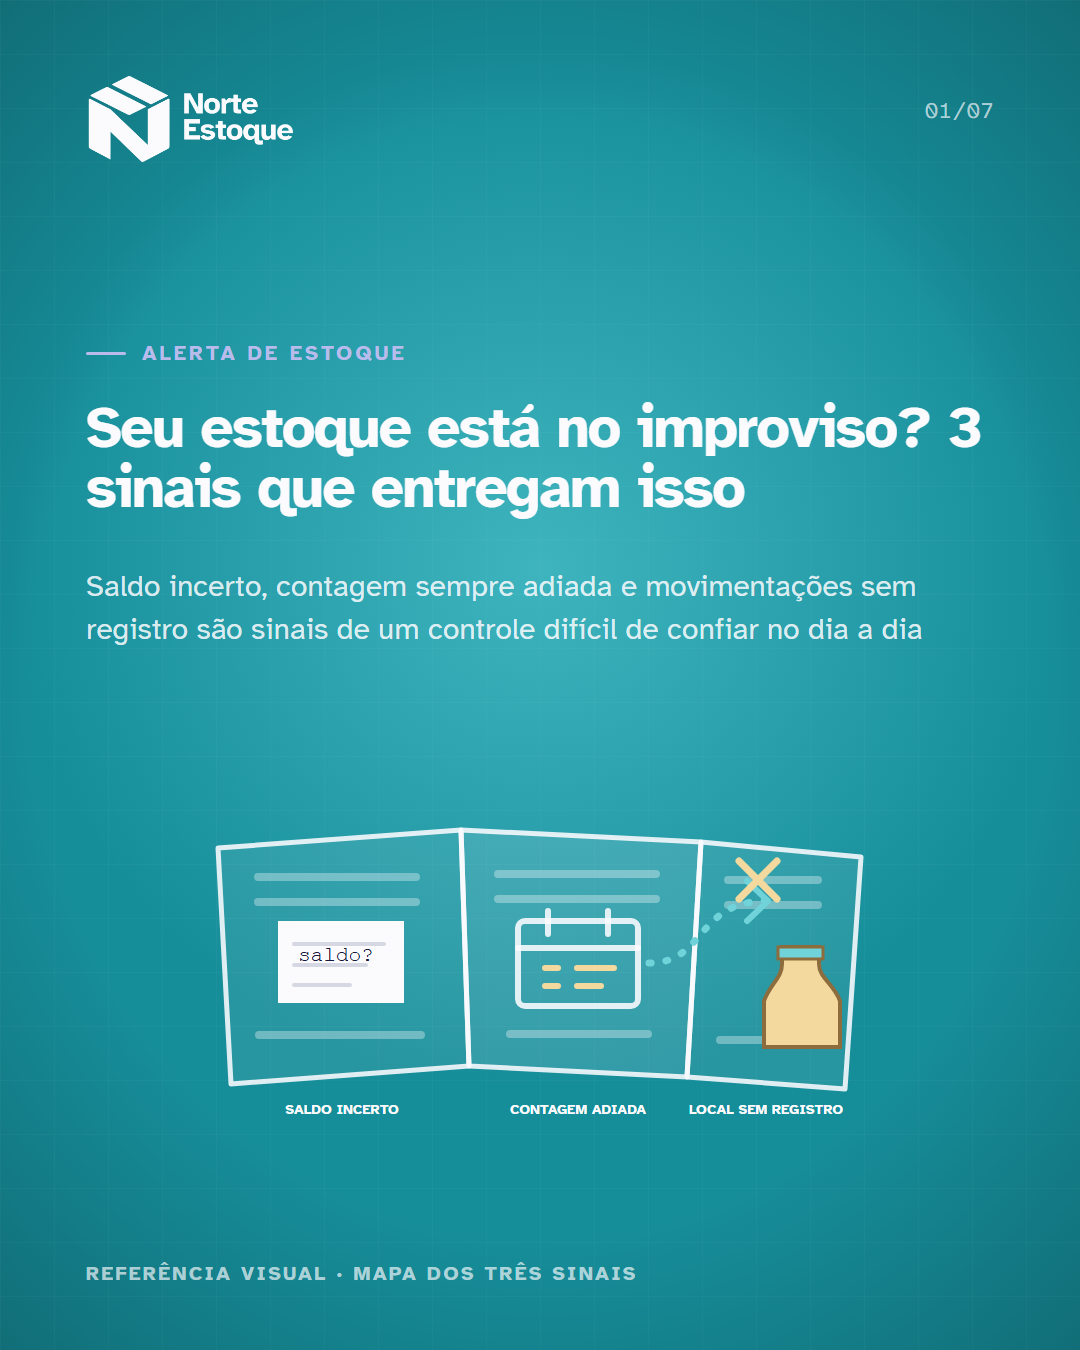
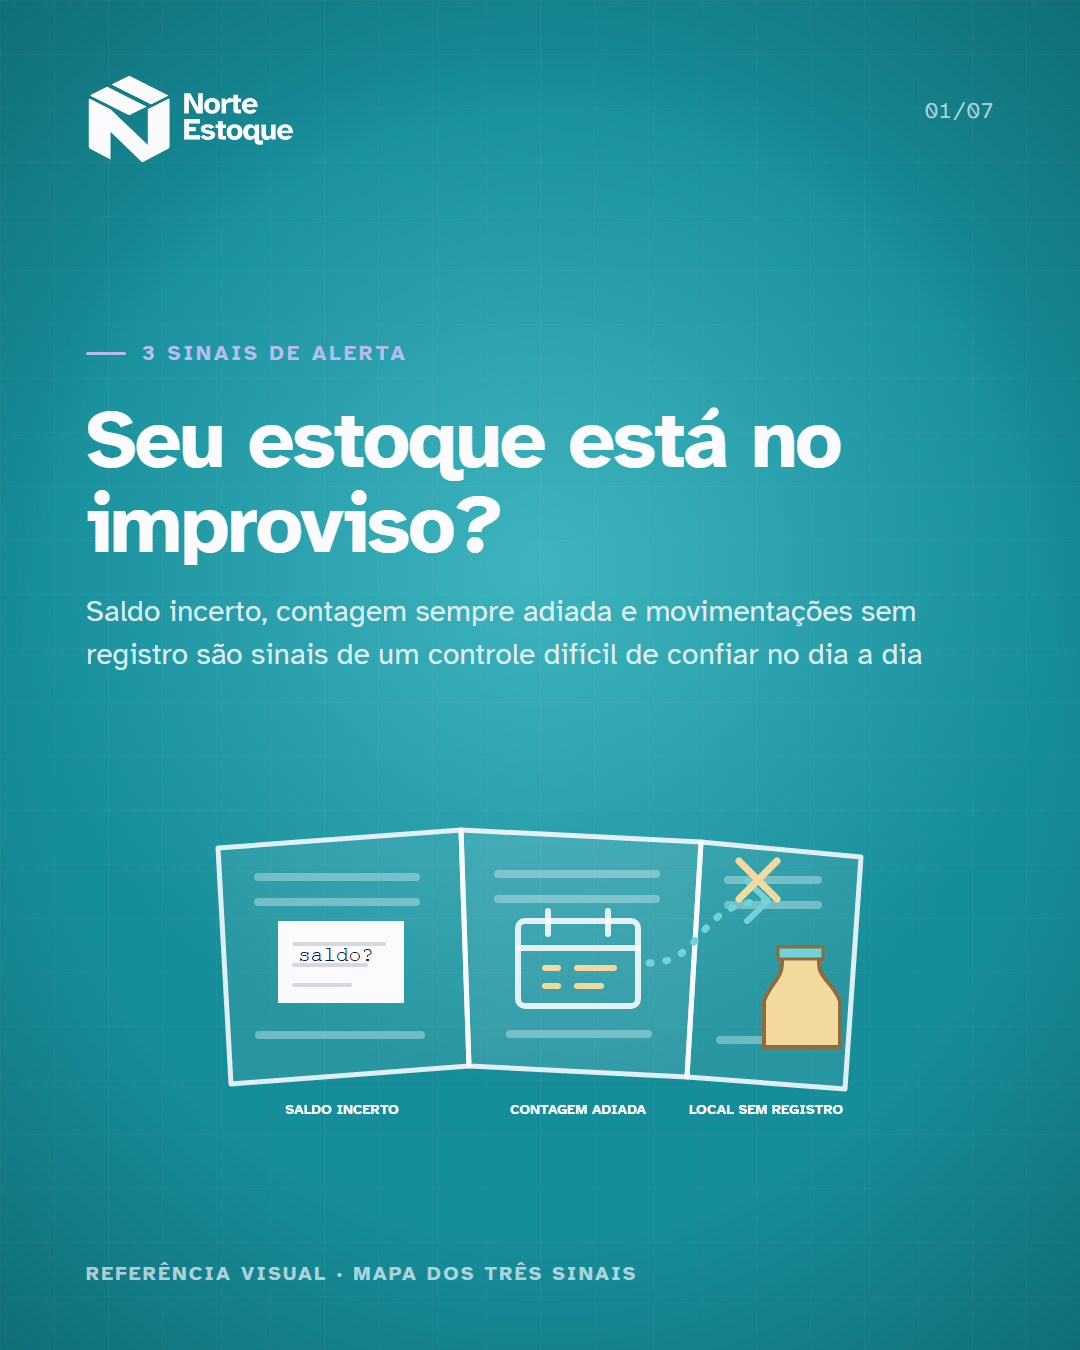
Emphasize three-signal inventory cover headline

Changed region(s): [[0.0611, 0.2489, 0.8556, 0.4978], [0.8861, 0.28, 0.9167, 0.3422]]

diff --git a/src/coverReferences/NorteEstoqueCoverReferences.tsx b/src/coverReferences/NorteEstoqueCoverReferences.tsx
@@ -18,9 +18,9 @@ const RefFrame: React.FC<{name: string; children: React.ReactNode}> = ({name, ch
         <Background tone="product" id={textureId} />
         <Img src={LOGO_ESTOQUE} style={{position: 'absolute', left: PAD, top: 76, height: 86, width: 'auto'}} />
         <span style={{position: 'absolute', right: PAD, top: 96, fontFamily: MONO, fontSize: 22, color: mute('product')}}>01/07</span>
-        <Eyebrow tone="product" top={340}>ALERTA DE ESTOQUE</Eyebrow>
-        <Title tone="product" top={398} size={58}>Seu estoque está no improviso? 3 sinais que entregam isso</Title>
-        <Support tone="product" top={565} width={870} size={30}>Saldo incerto, contagem sempre adiada e movimentações sem registro são sinais de um controle difícil de confiar no dia a dia</Support>
+        <Eyebrow tone="product" top={340}>3 SINAIS DE ALERTA</Eyebrow>
+        <Title tone="product" top={398} size={82}>Seu estoque está no improviso?</Title>
+        <Support tone="product" top={590} width={870} size={30}>Saldo incerto, contagem sempre adiada e movimentações sem registro são sinais de um controle difícil de confiar no dia a dia</Support>
         <div style={{position: 'absolute', left: 86, top: 770, width: 908, height: 390}}>{children}</div>
         <div style={{position: 'absolute', left: PAD, bottom: 64, fontFamily: SANS, fontWeight: 700, fontSize: 20, letterSpacing: 2.4, textTransform: 'uppercase', color: mute('product')}}>Referência visual · {name}</div>
       </AbsoluteFill>

diff --git a/src/templates/NorteEstoqueSinais.tsx b/src/templates/NorteEstoqueSinais.tsx
@@ -43,9 +43,9 @@ const Cover: React.FC = () => {
         <Background tone="product" id="ne-sinais-cover" />
         <Img src={LOGO_ESTOQUE} style={{position: 'absolute', left: PAD, top: 76, height: 86, width: 'auto'}} />
         <span style={{position: 'absolute', right: PAD, top: 96, fontFamily: MONO, fontSize: 22, color: mute('product')}}>01/07</span>
-        <Eyebrow tone="product" top={340}>ALERTA DE ESTOQUE</Eyebrow>
-        <Title tone="product" top={398} size={58}>Seu estoque está no improviso? 3 sinais que entregam isso</Title>
-        <Support tone="product" top={565} width={870} size={30}>Saldo incerto, contagem sempre adiada e movimentações sem registro são sinais de um controle difícil de confiar no dia a dia</Support>
+        <Eyebrow tone="product" top={340}>3 SINAIS DE ALERTA</Eyebrow>
+        <Title tone="product" top={398} size={82}>Seu estoque está no improviso?</Title>
+        <Support tone="product" top={590} width={870} size={30}>Saldo incerto, contagem sempre adiada e movimentações sem registro são sinais de um controle difícil de confiar no dia a dia</Support>
         <div data-illustration="stock-signal-triptych" style={{position: 'absolute', left: 86, top: 770, width: 908, height: 390}}>
           <NorteEstoqueSignalsIllustration />
         </div>

diff --git a/conteudo ntb/02-carrosseis/Norte Estoque - 3 sinais/COPY.md b/conteudo ntb/02-carrosseis/Norte Estoque - 3 sinais/COPY.md
@@ -2,9 +2,9 @@
 
 ## Slide 1 | Capa
 
-**ALERTA DE ESTOQUE**
+**3 SINAIS DE ALERTA**
 
-**Seu estoque está no improviso? 3 sinais que entregam isso**
+**Seu estoque está no improviso?**
 
 Saldo incerto, contagem sempre adiada e movimentações sem registro são sinais de um controle difícil de confiar no dia a dia
 
